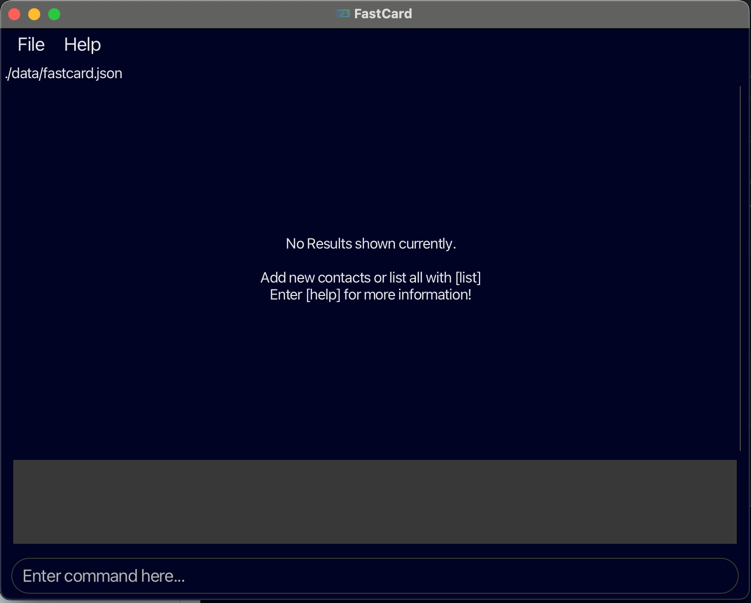
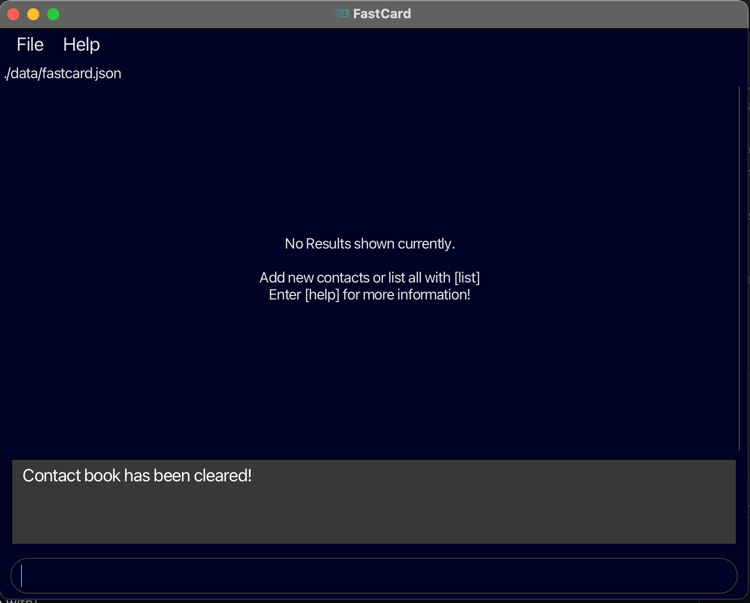
Rephrase and reupload a sample screenshot

diff --git a/docs/UserGuide.md b/docs/UserGuide.md
@@ -115,7 +115,7 @@ The window shows:
 __Lets Start Fresh!__
 
 - Perform the [`clear`](#removing-all-contacts-clear) operation (following guiding steps shown on result display)
-- After restarting the App , you'll be greeted with this message
+- After starting fresh with the above command , you'll be greeted with this message
 ![FastCard UI](images/Ui_init.png)
 
 **Troubleshooting:**
